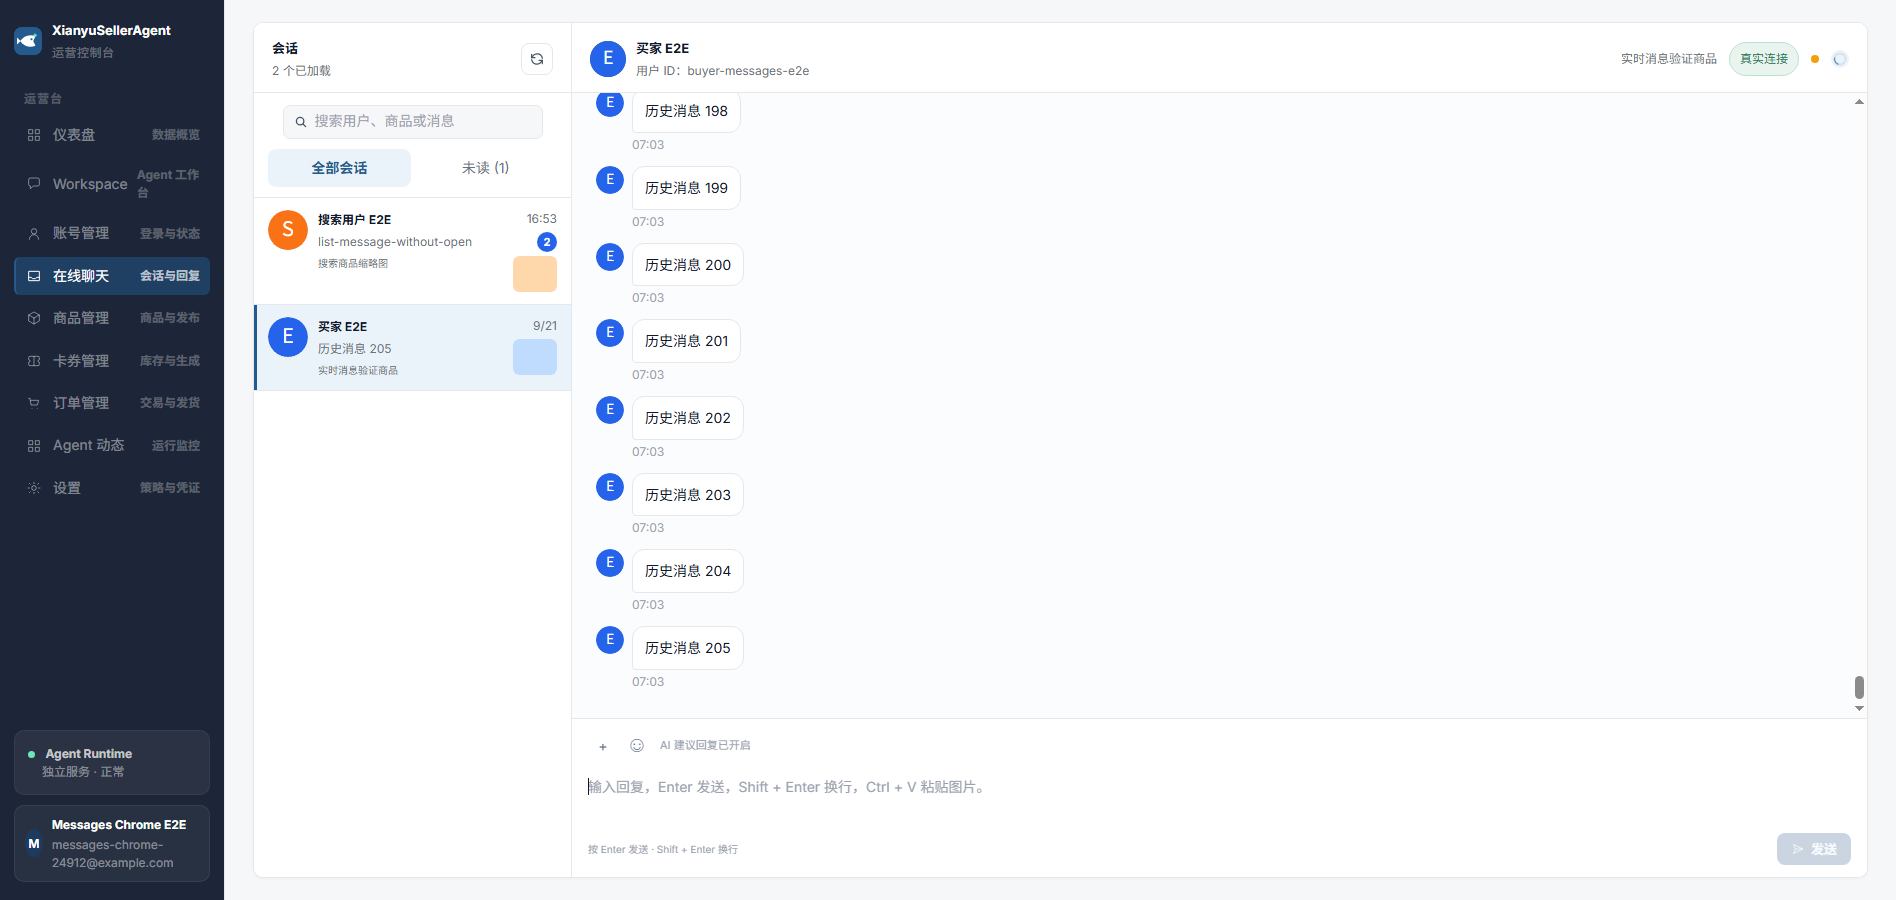
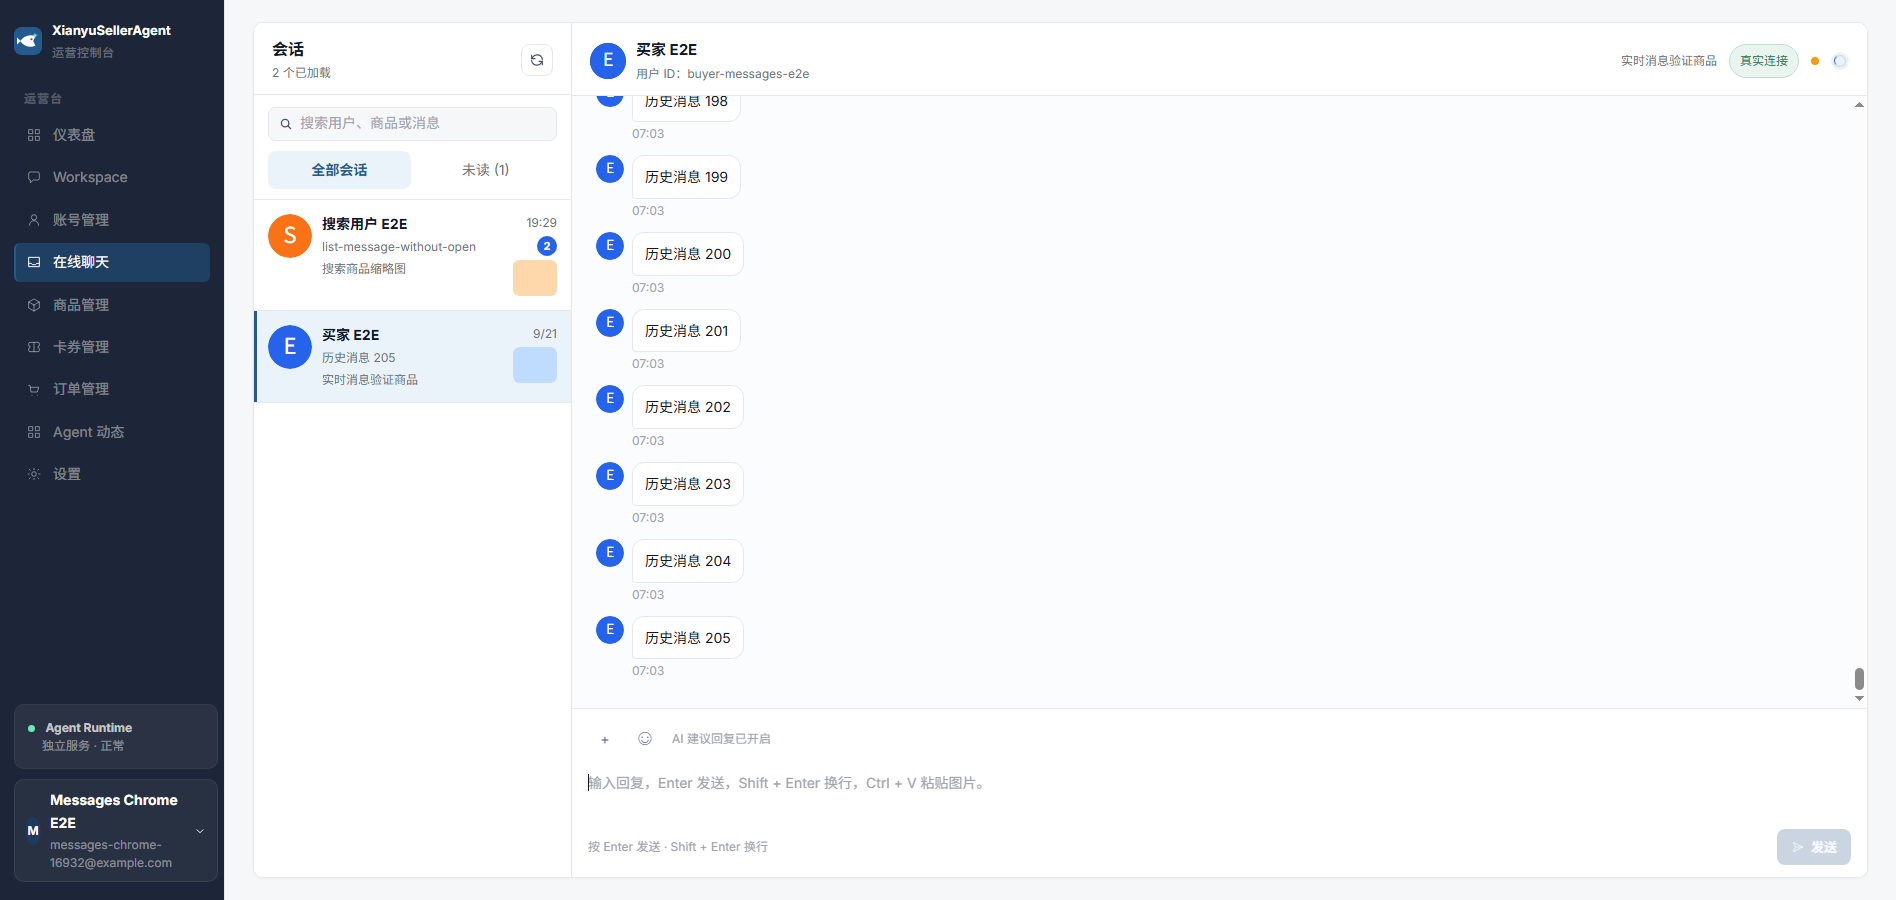
修复在线聊天字体层级与可读性

diff --git a/apps/web/src/features/messages/components/messages.css b/apps/web/src/features/messages/components/messages.css
@@ -154,13 +154,15 @@
 
 .messages-sidebar-header strong {
   color: var(--text);
-  font-size: 13px;
+  font-size: 16px;
+  line-height: 1.35;
 }
 
 .messages-sidebar-header small,
 .messages-main-header small {
   color: var(--sub);
-  font-size: 11px;
+  font-size: 12px;
+  line-height: 1.5;
 }
 
 .messages-header-loading {
@@ -185,6 +187,11 @@
   border-bottom-color: var(--border);
 }
 
+.messages-search {
+  max-width: none;
+  align-self: stretch;
+}
+
 .messages-filter-tabs {
   gap: 4px;
 }
@@ -193,7 +200,7 @@
   border-radius: 8px;
   padding: 8px 6px;
   color: var(--sub);
-  font-size: 11px;
+  font-size: 13px;
 }
 
 .messages-filter-tabs button.active {
@@ -202,9 +209,9 @@
 }
 
 .messages-conversation-list button {
-  grid-template-columns: 40px minmax(0, 1fr) 64px;
+  grid-template-columns: 44px minmax(0, 1fr) 64px;
   gap: 10px;
-  padding: 12px 14px;
+  padding: 14px 14px;
   border-bottom-color: var(--border);
 }
 
@@ -220,18 +227,23 @@
 .messages-conversation-avatar {
   background: var(--soft-blue-bg);
   color: var(--link);
+  width: 44px;
+  height: 44px;
+  font-size: 14px;
 }
 
 .messages-conversation-copy strong {
   color: var(--text);
-  font-size: 12px;
+  font-size: 14px;
+  line-height: 1.4;
 }
 
 .messages-conversation-copy small,
 .messages-conversation-copy em,
 .messages-conversation-meta small {
   color: var(--sub);
-  font-size: 10px;
+  font-size: 12px;
+  line-height: 1.45;
 }
 
 .messages-conversation-item {
@@ -252,11 +264,15 @@
   color: #fff;
 }
 
+.messages-main-identity strong {
+  font-size: 15px;
+}
+
 .messages-main-header-meta {
   min-width: 0;
   gap: 12px;
   color: var(--sub);
-  font-size: 11px;
+  font-size: 12px;
 }
 
 .messages-main-header-meta > span:first-child {
@@ -304,7 +320,7 @@
   padding: 10px 12px;
   background: #fff;
   color: var(--text);
-  font-size: 12px;
+  font-size: 14px;
   line-height: 1.6;
 }
 
@@ -433,7 +449,7 @@
   width: fit-content;
   margin-top: 3px;
   color: var(--axis);
-  font-size: 9px;
+  font-size: 11px;
 }
 
 .messages-bubble-row.outbound .messages-message-foot {
@@ -442,15 +458,35 @@
 
 .messages-read-state {
   color: var(--link);
-  font-weight: 700;
+  font-size: 12px;
+  font-weight: 800;
 }
 
 .messages-read-state.unread {
   color: #d97706;
 }
 
+.messages-source-label {
+  font-size: 13px;
+  font-weight: 700;
+}
+
+.messages-source-label.human {
+  color: var(--link);
+}
+
+.messages-source-label.ai {
+  color: #7c3aed;
+}
+
 .messages-link {
   color: var(--link);
+}
+
+.messages-bubble.outbound .messages-link {
+  color: #fff;
+  font-weight: 700;
+  text-decoration-color: rgba(255, 255, 255, .88);
 }
 
 .messages-composer {
@@ -479,27 +515,39 @@
 }
 
 .messages-composer-assist-row {
-  min-height: 28px;
+  min-height: 36px;
   display: flex;
   align-items: center;
   border-bottom: 0;
 }
 
 .messages-composer-tools {
-  gap: 4px;
+  gap: 6px;
+}
+
+.messages-tool-button {
+  width: 34px;
+  height: 34px;
+  font-size: 22px;
+}
+
+.messages-emoji-button {
+  font-size: 22px;
 }
 
 .messages-ai-assist-label {
   margin-left: 4px;
   color: var(--axis);
-  font-size: 11px;
+  font-size: 12px;
+  line-height: 1.5;
 }
 
 .messages-composer textarea {
   min-height: 56px;
   padding: 7px 0 10px;
   color: var(--text);
-  font-size: 13px;
+  font-size: 14px;
+  line-height: 1.6;
 }
 
 .messages-composer-editor {
@@ -536,8 +584,8 @@
   overflow: hidden;
   padding: 7px 0 10px;
   color: var(--text);
-  font-size: 13px;
-  line-height: 1.5;
+  font-size: 14px;
+  line-height: 1.6;
   white-space: pre-wrap;
   overflow-wrap: anywhere;
   pointer-events: none;
@@ -579,7 +627,8 @@
   align-items: center;
   gap: 10px;
   color: var(--axis);
-  font-size: 10px;
+  font-size: 12px;
+  line-height: 1.5;
 }
 
 .messages-composer-shortcuts > span:first-child {
@@ -591,8 +640,8 @@
   align-items: center;
   justify-content: center;
   gap: 6px;
-  min-width: 70px;
-  height: 32px;
+  min-width: 74px;
+  height: 36px;
   border-radius: 8px;
   background: var(--link);
 }
@@ -616,7 +665,7 @@
   border: 1px solid var(--success-border);
   background: var(--success-bg);
   color: var(--success);
-  font-size: 11px;
+  font-size: 12px;
 }
 
 @media (max-width: 900px) {

diff --git a/apps/web/src/features/messages/components/messages-typography.test.ts b/apps/web/src/features/messages/components/messages-typography.test.ts
@@ -1,0 +1,29 @@
+import { readFileSync } from 'node:fs';
+import { fileURLToPath } from 'node:url';
+import { describe, expect, it } from 'vitest';
+
+const messagesCss = readFileSync(fileURLToPath(new URL('./messages.css', import.meta.url)), 'utf8').replace(/\r\n/g, '\n');
+
+describe('messages typography hierarchy', () => {
+  it('keeps the current platform session list readable', () => {
+    expect(messagesCss).toMatch(/\.messages-search\s*\{[\s\S]*?max-width:\s*none;[\s\S]*?align-self:\s*stretch;/);
+    expect(messagesCss).toContain('grid-template-columns: 44px minmax(0, 1fr) 64px;');
+    expect(messagesCss).toMatch(/\.messages-conversation-copy strong\s*\{[\s\S]*?font-size:\s*14px;/);
+    expect(messagesCss).toMatch(/\.messages-conversation-copy small,[\s\S]*?\.messages-conversation-meta small\s*\{[\s\S]*?font-size:\s*12px;/);
+  });
+
+  it('distinguishes message body, source label, and unread state', () => {
+    expect(messagesCss).toMatch(/\.messages-bubble\s*\{[\s\S]*?font-size:\s*14px;[\s\S]*?line-height:\s*1\.6;/);
+    expect(messagesCss).toMatch(/\.messages-source-label\s*\{[\s\S]*?font-size:\s*13px;[\s\S]*?font-weight:\s*700;/);
+    expect(messagesCss).toMatch(/\.messages-read-state\s*\{[\s\S]*?font-size:\s*12px;[\s\S]*?font-weight:\s*800;/);
+    expect(messagesCss).toContain('.messages-read-state.unread');
+  });
+
+  it('keeps composer controls and outbound links legible', () => {
+    expect(messagesCss).toMatch(/\.messages-composer-assist-row\s*\{[\s\S]*?min-height:\s*36px;/);
+    expect(messagesCss).toMatch(/\.messages-tool-button\s*\{[\s\S]*?width:\s*34px;[\s\S]*?height:\s*34px;[\s\S]*?font-size:\s*22px;/);
+    expect(messagesCss).toMatch(/\.messages-ai-assist-label\s*\{[\s\S]*?font-size:\s*12px;/);
+    expect(messagesCss).toMatch(/\.messages-composer-shortcuts\s*\{[\s\S]*?font-size:\s*12px;/);
+    expect(messagesCss).toMatch(/\.messages-bubble\.outbound \.messages-link\s*\{[\s\S]*?color:\s*#fff;/);
+  });
+});

diff --git a/apps/web/src/features/messages/components/MessageTimeline.tsx b/apps/web/src/features/messages/components/MessageTimeline.tsx
@@ -52,7 +52,7 @@ export function MessageTimeline({ messages, phase, hasMoreHistory = false, loadi
           <div className={`messages-bubble ${isOutbound ? 'outbound' : 'inbound'}`}>
             {imageUrl ? <button className="messages-image-button" type="button" aria-label="查看聊天图片" onClick={() => onOpenImage?.(imageUrl)}><img className="messages-image" src={imageUrl} alt="聊天图片" loading="lazy" /></button> : <span>{renderMessageText(message.bodyText || (message.bodyType === 'image' ? '[图片]' : '[系统消息]'))}</span>}
           </div>
-          <div className="messages-message-foot"><time>{formatTime(message.createdAt)}</time>{message.source === 'ai' && <span>AI</span>}{message.source === 'human' && <span>人工</span>}{isOutbound && renderReadState(message)}</div>
+          <div className="messages-message-foot"><time>{formatTime(message.createdAt)}</time>{message.source === 'ai' && <span className="messages-source-label ai">AI</span>}{message.source === 'human' && <span className="messages-source-label human">人工</span>}{isOutbound && renderReadState(message)}</div>
         </div>
       </div>;
     })}

diff --git a/apps/web/src/features/messages/MessageTimeline.test.ts b/apps/web/src/features/messages/MessageTimeline.test.ts
@@ -73,6 +73,8 @@ describe('MessageTimeline', () => {
     expect(html).not.toContain('Seller');
     expect(html).toContain('AI');
     expect(html).toContain('人工');
+    expect(html).toContain('messages-source-label ai');
+    expect(html).toContain('messages-source-label human');
     expect(html).toContain('messages-read-state');
     expect(html).toContain('>已读</span>');
   });

diff --git a/docs/agent-worktree-registry.md b/docs/agent-worktree-registry.md
@@ -93,7 +93,7 @@
 | `root` | `coupons-batch-id-sequence-20260922` | `codex/coupons-batch-id-sequence-20260922` | `F:\ChenHai\Project\XianYuAgent-coupons-batch-id` | Codex `/root` | `2026-09-22 14:00:00 +08:00` | `MERGED` | `f7fd2f7` | `-` | 已以 `f7fd2f7` 合入 main；包含可回收数字序号、默认创建时间倒序、时间列双向排序、旧 UUID 兼容与删除后序号复用；合并后保留 main 原有本地改动。 |
 | `root` | `coupons-relation-modal-20260922` | `fix/coupons-relation-modal-20260922` | `F:\ChenHai\Project\XianYuAgent-coupons-relation-modal-20260922` | Codex `/root` | `2026-09-22 15:04:00 +08:00` | `CLEANED` | `8d81000` | `2026-09-22 15:10:00 +08:00` | 提交 `21f8cfa` 已在 stale lock 恢复后以 `--no-ff` 合入 main；空态四向居中、弹窗视口约束/内部滚动、商品标题字号与隐藏 ID 已修复；Web 210 项、typecheck、build、Coupons Chrome/CDP 与 diff-check 通过；worktree 与分支已清理。 |
 | `root` | `main-logo-candidates-20260922` | `codex/main-logo-candidates` | `F:\ChenHai\Project\XianYuAgent-main-logo-candidates` | Codex `/root` | `2026-09-22 16:20:00 +08:00` | `CLEANED` | `da7aa68` | `2026-09-22 16:35:41 +08:00` | 保留 5 套主 Logo；默认 Agent Fish；VITE_LOGO_VARIANT 驱动侧栏与 favicon；主线 Web typecheck、brand/App 定向测试、build 与 diff check 已通过；主工作区原有未提交改动已保留。 |
-| `root` | `chat-typography-fix-20260922` | `fix/chat-typography-20260922` | `F:\ChenHai\Project\XianYuAgent-chat-typography-fix` | Codex `/root` | `2026-09-22 18:58:00 +08:00` | `READY_FOR_REVIEW` | `-` | `-` | 在线聊天字体层级 HTML 预览；待用户确认后再修改正式组件样式。 |
+| `root` | `chat-typography-fix-20260922` | `fix/chat-typography-20260922` | `F:\ChenHai\Project\XianYuAgent-chat-typography-fix` | Codex `/root` | `2026-09-22 18:58:00 +08:00` | `READY_FOR_REVIEW` | `-` | `-` | 已按确认预览落地在线聊天字体层级、会话标签、搜索框对齐、composer 控件和外发链接对比度；定向 Vitest、Web typecheck/build、Chrome/CDP messages E2E 通过。 |
 
 ## 主工作区
 
